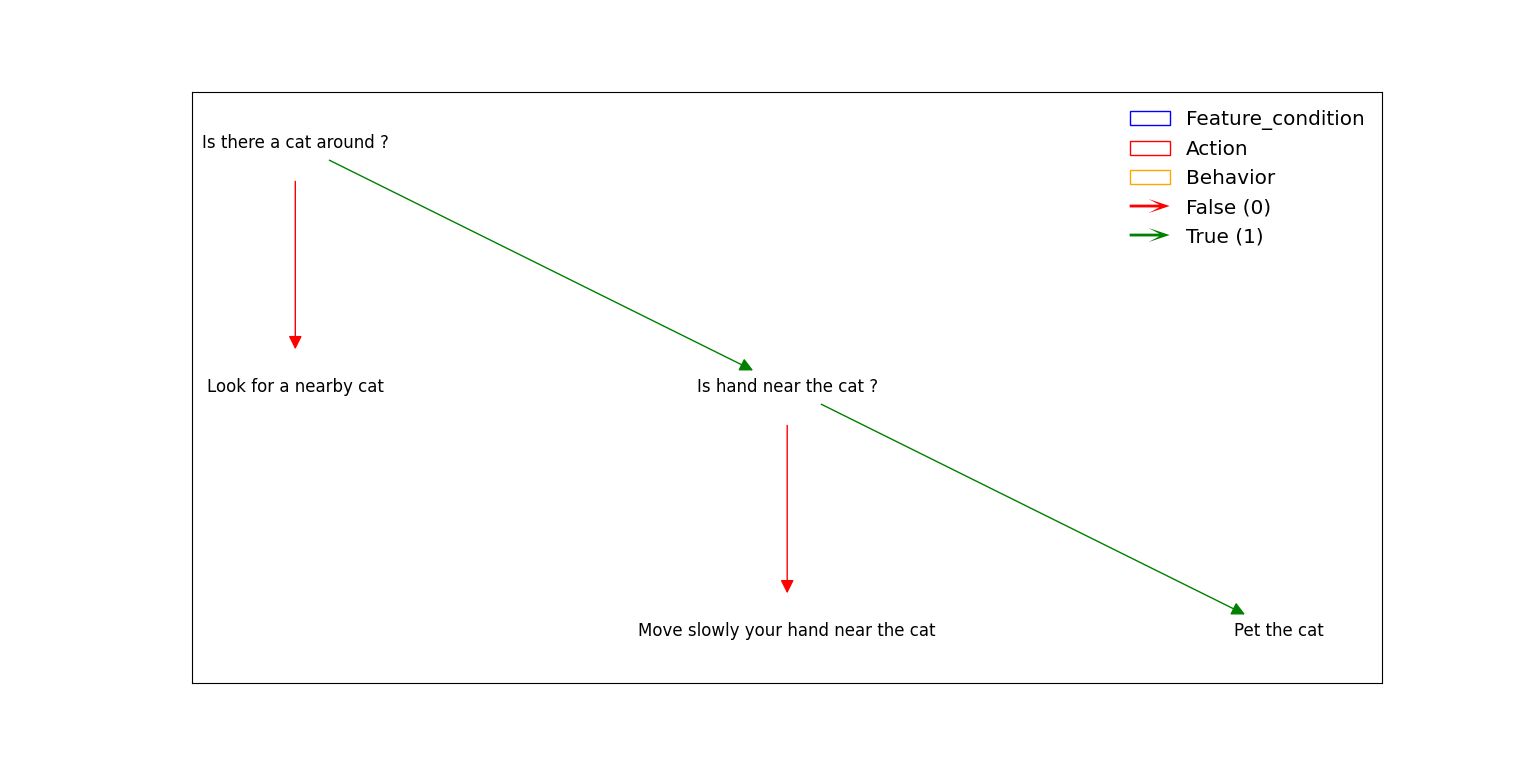
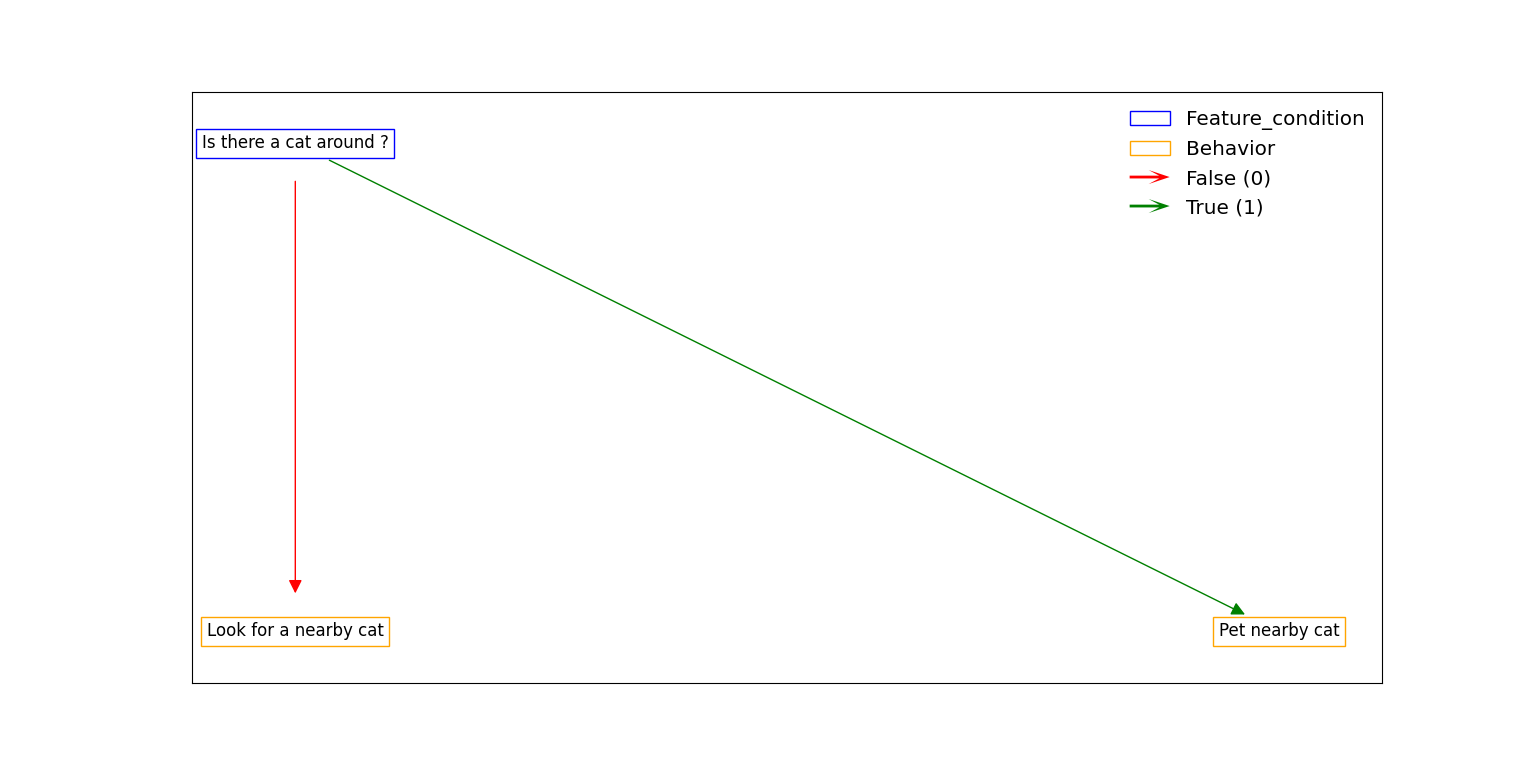
:memo: Make PetACat example hierarchical to showcase unrolling

diff --git a/tests/integration/test_pet_a_cat.py b/tests/integration/test_pet_a_cat.py
@@ -3,15 +3,19 @@
 Here is the hierarchical structure that we would want:
 
 ```
-IsThereACatAround ?
-Yes:
+PetACat:
+    IsThereACatAround ?
+    -> Yes:
+        PetNearbyCat
+    -> No:
+        LookForACat
+
+PetNearbyCat:
     IsYourHandNearTheCat ?
-    Yes:
-        PetTheCat
-    No:
-        MoveSlowlyYourHandNearTheCat
-No:
-    LookForACat
+    -> Yes:
+        Pet
+    -> No:
+        MoveYourHandNearTheCat
 ```
 
 """
@@ -22,23 +26,13 @@ import pytest_check as check
 import matplotlib.pyplot as plt
 
 from hebg import HEBGraph, Action, FeatureCondition, Behavior
+from hebg.unrolling import unroll_graph
 from tests.integration.test_code_generation import _unidiff_output
 
 
-class PetTheCat(Action):
+class Pet(Action):
     def __init__(self) -> None:
         super().__init__(action="Pet")
-
-
-class IsThereACatAround(FeatureCondition):
-    def __init__(self) -> None:
-        super().__init__(name="Is there a cat around ?")
-
-    def __call__(self, observation):
-        # Could be a very complex function that returns 1 is there is a cat around else 0.
-        if "cat" in observation:
-            return int(True)  # 1
-        return int(False)  # 0
 
 
 class IsYourHandNearTheCat(FeatureCondition):
@@ -53,13 +47,37 @@ class IsYourHandNearTheCat(FeatureCondition):
         return int(False)  # 0
 
 
-class MoveSlowlyYourHandNearTheCat(Behavior):
+class MoveYourHandNearTheCat(Behavior):
     def __init__(self) -> None:
         super().__init__(name="Move slowly your hand near the cat")
 
     def __call__(self, observation, *args, **kwargs) -> Action:
         # Could be a very complex function that returns actions from any given observation
         return Action("Move hand to cat")
+
+
+class PetNearbyCat(Behavior):
+    def __init__(self) -> None:
+        super().__init__(name="Pet nearby cat")
+
+    def build_graph(self) -> HEBGraph:
+        graph = HEBGraph(self)
+        is_hand_near_cat = IsYourHandNearTheCat(hand="hand")
+        graph.add_edge(is_hand_near_cat, MoveYourHandNearTheCat(), index=int(False))
+        graph.add_edge(is_hand_near_cat, Pet(), index=int(True))
+
+        return graph
+
+
+class IsThereACatAround(FeatureCondition):
+    def __init__(self) -> None:
+        super().__init__(name="Is there a cat around ?")
+
+    def __call__(self, observation):
+        # Could be a very complex function that returns 1 is there is a cat around else 0.
+        if "cat" in observation:
+            return int(True)  # 1
+        return int(False)  # 0
 
 
 class LookForACat(Behavior):
@@ -73,21 +91,13 @@ class LookForACat(Behavior):
 
 class PetACat(Behavior):
     def __init__(self) -> None:
-        super().__init__(name="pet the cat")
+        super().__init__(name="Pet a cat")
 
     def build_graph(self) -> HEBGraph:
         graph = HEBGraph(self)
         is_a_cat_around = IsThereACatAround()
-        is_hand_near_cat = IsYourHandNearTheCat(hand="hand")
-
         graph.add_edge(is_a_cat_around, LookForACat(), index=int(False))
-        graph.add_edge(is_a_cat_around, is_hand_near_cat, index=int(True))
-
-        graph.add_edge(
-            is_hand_near_cat, MoveSlowlyYourHandNearTheCat(), index=int(False)
-        )
-        graph.add_edge(is_hand_near_cat, PetTheCat(), index=int(True))
-
+        graph.add_edge(is_a_cat_around, PetNearbyCat(), index=int(True))
         return graph
 
 
@@ -96,6 +106,7 @@ class TestPetACat:
 
     @pytest.fixture(autouse=True)
     def setup_method(self):
+        self.pet_nearby_cat_behavior = PetNearbyCat()
         self.pet_a_cat_behavior = PetACat()
 
     def test_call(self):
@@ -109,15 +120,25 @@ class TestPetACat:
         action = self.pet_a_cat_behavior(observation)
         check.equal(action, Action("Move hand to cat"))
 
-    def test_graph_edges(self):
-        """should give expected edges"""
+    def test_pet_a_cat_graph_edges(self):
+        """should give expected edges for PetACat"""
         # Obtain networkx graph
         graph = self.pet_a_cat_behavior.graph
         check.equal(
             set(graph.edges(data="index")),
             {
                 ("Is there a cat around ?", "Look for a nearby cat", 0),
-                ("Is there a cat around ?", "Is hand near the cat ?", 1),
+                ("Is there a cat around ?", "Pet nearby cat", 1),
+            },
+        )
+
+    def test_pet_nearby_cat_graph_edges(self):
+        """should give expected edges for PetNearbyCat"""
+        # Obtain networkx graph
+        graph = self.pet_nearby_cat_behavior.graph
+        check.equal(
+            set(graph.edges(data="index")),
+            {
                 ("Is hand near the cat ?", "Move slowly your hand near the cat", 0),
                 ("Is hand near the cat ?", "Action(Pet)", 1),
             },
@@ -125,8 +146,16 @@ class TestPetACat:
 
     def test_draw(self):
         """should be able to draw without error"""
-        _, ax = plt.subplots()
+        fig, ax = plt.subplots()
         self.pet_a_cat_behavior.graph.draw(ax)
+        plt.close(fig)
+
+    def test_draw_unrolled(self):
+        """should be able to draw without error"""
+        fig, ax = plt.subplots()
+        unrolled_graph = unroll_graph(self.pet_a_cat_behavior.graph, add_prefix=False)
+        unrolled_graph.draw(ax)
+        plt.close(fig)
 
     def test_codegen(self):
         """should generate expected source code"""
@@ -137,7 +166,7 @@ class TestPetACat:
                 "",
                 "# Require 'Look for a nearby cat' behavior to be given.",
                 "# Require 'Move slowly your hand near the cat' behavior to be given.",
-                "class PetTheCat(GeneratedBehavior):",
+                "class PetACat(GeneratedBehavior):",
                 "    def __call__(self, observation):",
                 "        edge_index = self.feature_conditions['Is there a cat around ?'](observation)",
                 "        if edge_index == 0:",

diff --git a/README.rst b/README.rst
@@ -60,34 +60,32 @@ Here is an example to show how could we hierarchicaly build an explanable behavi
    Here is the hierarchical structure that we would want:
 
    ```
-   IsThereACatAround ?
-   Yes:
+   PetACat:
+      IsThereACatAround ?
+      -> Yes:
+         PetNearbyCat
+      -> No:
+         LookForACat
+
+   PetNearbyCat:
       IsYourHandNearTheCat ?
-      Yes:
-         PetTheCat
-      No:
-         MoveSlowlyYourHandNearTheCat
-   No:
-      LookForACat
+      -> Yes:
+         Pet
+      -> No:
+         MoveYourHandNearTheCat
    ```
 
    """
 
    from hebg import HEBGraph, Action, FeatureCondition, Behavior
+   from hebg.unrolling import unroll_graph
 
+   # Add a fundamental action
    class Pet(Action):
       def __init__(self) -> None:
          super().__init__(action="Pet")
 
-   class IsThereACatAround(FeatureCondition):
-      def __init__(self) -> None:
-         super().__init__(name="Is there a cat around ?")
-      def __call__(self, observation):
-         # Could be a very complex function that returns 1 is there is a cat around else 0.
-         if "cat" in observation:
-            return int(True) # 1
-         return int(False) # 0
-
+   # Add a condition on the observation
    class IsYourHandNearTheCat(FeatureCondition):
       def __init__(self, hand) -> None:
          super().__init__(name="Is hand near the cat ?")
@@ -95,16 +93,39 @@ Here is an example to show how could we hierarchicaly build an explanable behavi
       def __call__(self, observation):
          # Could be a very complex function that returns 1 is the hand is near the cat else 0.
          if observation["cat"] == observation[self.hand]:
-            return int(True) # 1
-         return int(False) # 0
+               return int(True)  # 1
+         return int(False)  # 0
 
-   class MoveSlowlyYourHandNearTheCat(Behavior):
+   # Add an unexplainable Behavior (without a graph, but a function that can be called).
+   class MoveYourHandNearTheCat(Behavior):
       def __init__(self) -> None:
          super().__init__(name="Move slowly your hand near the cat")
       def __call__(self, observation, *args, **kwargs) -> Action:
          # Could be a very complex function that returns actions from any given observation
          return Action("Move hand to cat")
 
+   # Add a sub-behavior
+   class PetNearbyCat(Behavior):
+      def __init__(self) -> None:
+         super().__init__(name="Pet nearby cat")
+      def build_graph(self) -> HEBGraph:
+         graph = HEBGraph(self)
+         is_hand_near_cat = IsYourHandNearTheCat(hand="hand")
+         graph.add_edge(is_hand_near_cat, MoveYourHandNearTheCat(), index=int(False))
+         graph.add_edge(is_hand_near_cat, Pet(), index=int(True))
+         return graph
+
+   # Add an other condition on observation
+   class IsThereACatAround(FeatureCondition):
+      def __init__(self) -> None:
+         super().__init__(name="Is there a cat around ?")
+      def __call__(self, observation):
+         # Could be a very complex function that returns 1 is there is a cat around else 0.
+         if "cat" in observation:
+               return int(True)  # 1
+         return int(False)  # 0
+
+   # Add an other unexplainable Behavior (without a graph, but a function that can be called).
    class LookForACat(Behavior):
       def __init__(self) -> None:
          super().__init__(name="Look for a nearby cat")
@@ -112,20 +133,15 @@ Here is an example to show how could we hierarchicaly build an explanable behavi
          # Could be a very complex function that returns actions from any given observation
          return Action("Move to a cat")
 
+   # Finally, add the main Behavior
    class PetACat(Behavior):
       def __init__(self) -> None:
-         super().__init__(name="pet the cat")
+         super().__init__(name="Pet a cat")
       def build_graph(self) -> HEBGraph:
          graph = HEBGraph(self)
          is_a_cat_around = IsThereACatAround()
-         is_hand_near_cat = IsYourHandNearTheCat(hand="hand")
-
          graph.add_edge(is_a_cat_around, LookForACat(), index=int(False))
-         graph.add_edge(is_a_cat_around, is_hand_near_cat, index=int(True))
-
-         graph.add_edge(is_hand_near_cat, MoveSlowlyYourHandNearTheCat(), index=int(False))
-         graph.add_edge(is_hand_near_cat, Pet(), index=int(True))
-
+         graph.add_edge(is_a_cat_around, PetNearbyCat(), index=int(True))
          return graph
 
    if __name__ == "__main__":
@@ -152,6 +168,33 @@ Here is an example to show how could we hierarchicaly build an explanable behavi
 
 .. image:: docs/images/PetACatGraph.png
    :align: center
+
+Unrolling HEBGraph
+~~~~~~~~~~~~~~~~~~
+
+When ploting an HEBGraph of a behavior, only the graph of the behavior itself is shown.
+To see the full hierarchical graph (including sub-behaviors), we need to unroll the graph as such:
+
+.. code-block:: py3
+
+   from hebg.unrolling import unroll_graph
+
+   unrolled_graph = unroll_graph(pet_a_cat_behavior.graph, add_prefix=False)
+   
+   # Is also a networkx graph
+   print(list(unrolled_graph.edges(data="index")))
+
+   # Draw graph using matplotlib
+   import matplotlib.pyplot as plt
+   fig, ax = plt.subplots()
+   unrolled_graph.draw(ax)
+   plt.show()
+
+
+.. image:: docs/images/PetACatGraphUnrolled.png
+   :align: center
+
+Note that unexplainable behaviors (the one without graphs) are kept as is.
 
 Python code generation from graph
 ~~~~~~~~~~~~~~~~~~~~~~~~~~~~~~~~~
